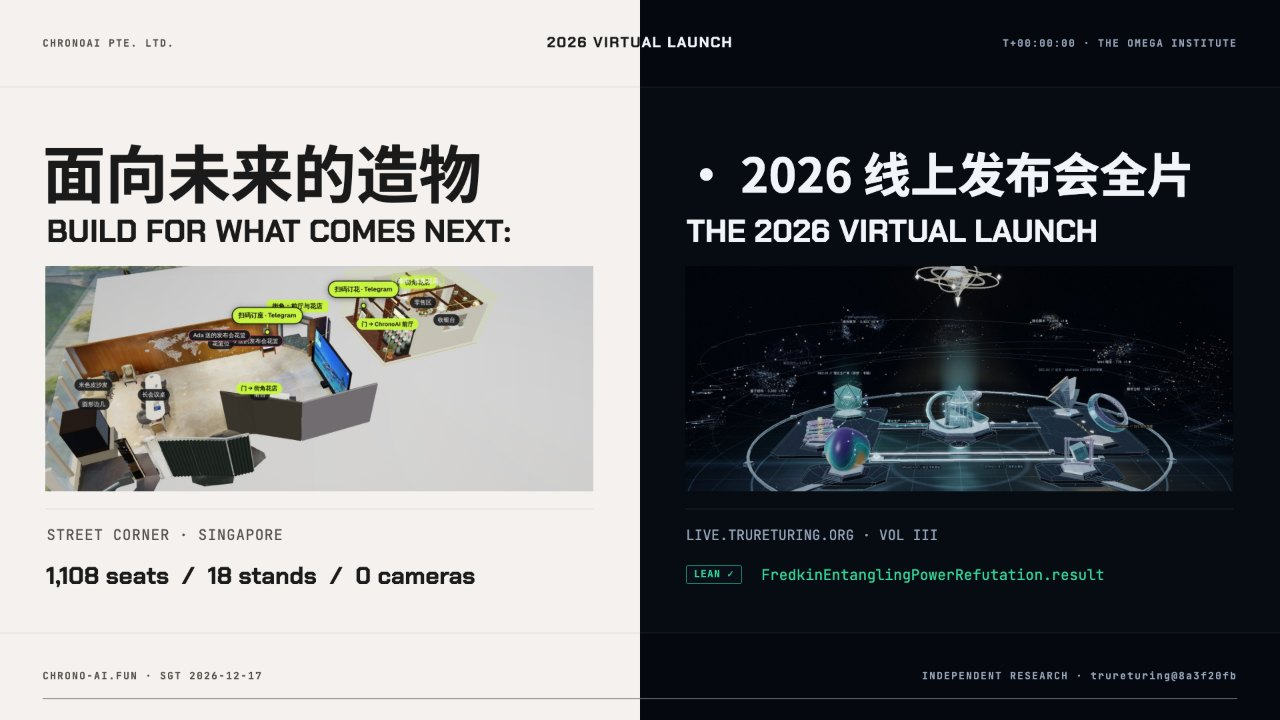
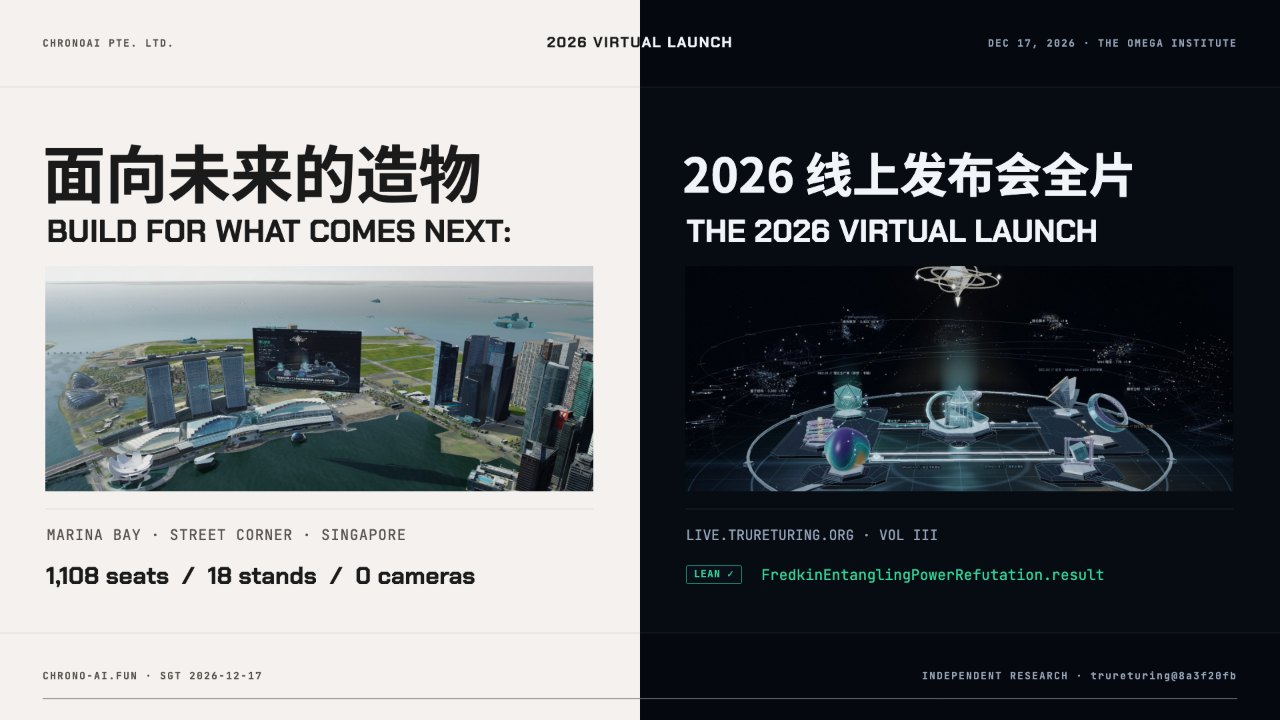
feat(films): film the launch prologue on the Marina Bay live screens

diff --git a/books/launch-keynote/films/virtual-launch-2026/scenes.js b/books/launch-keynote/films/virtual-launch-2026/scenes.js
@@ -7,7 +7,10 @@ Object.assign(FILM.polarity, {
   act2_observatory: 'deep-space', act2_kernel_audit: 'deep-space', act2_open_frontier: 'deep-space',
   act3_vehicle: 'daylight', act3_limits: 'daylight', act4_employees: 'daylight', coda_invitation: 'dual-split'
 });
-Object.assign(FILM.alphaScenes, { act2_observatory: true, act2_kernel_audit: true, act4_employees: true });
+Object.assign(FILM.alphaScenes, {
+  prologue_street: true, prologue_lobby: true,
+  act2_observatory: true, act2_kernel_audit: true, act4_employees: true
+});
 
 const plaza = pal('daylight'), space = pal('deep-space');
 const company = 'CHRONOAI PTE. LTD.', institute = 'THE OMEGA INSTITUTE (INDEPENDENT)';
@@ -340,12 +343,12 @@ FILM.poster = () => {
   const S = { id: 'coda_invitation', t: 0, p: 1 };
   splitPaper();
   heading('面向未来的造物', 64, 297, 94, plaza.ink, { fam: F.zh });
-  heading('· 2026 线上发布会全片', 1024, 289, 71, space.ink, { fam: F.zh });
+  heading('2026 线上发布会全片', 1024, 289, 71, space.ink, { fam: F.zh });
   heading('BUILD FOR WHAT COMES NEXT:', 70, 363, 47, plaza.ink);
   heading('THE 2026 VIRTUAL LAUNCH', 1030, 363, 47, space.ink);
   portalPhotos(399, 338);
   rule(68, 890, 763, plaza); rule(1028, 1850, 763, space);
-  caption('STREET CORNER · SINGAPORE', 70, 810, plaza.dim, 22, { ls: 1 });
+  caption('MARINA BAY · STREET CORNER · SINGAPORE', 70, 810, plaza.dim, 22, { ls: 1 });
   caption('LIVE.TRURETURING.ORG · VOL III', 1029, 810, space.dim, 21);
   heading('1,108 seats  /  18 stands  /  0 cameras', 69, 876, 36, plaza.ink);
   if (leanCite(fredkinGid)?.kind === 'theorem') {
@@ -355,6 +358,10 @@ FILM.poster = () => {
   cinemaFrame(S, { polarity: 'dual-split', leftLabel: company, chapterLabel: '2026 VIRTUAL LAUNCH',
     rightLabel: 'THE OMEGA INSTITUTE', slateLeft: 'CHRONO-AI.FUN · SGT 2026-12-17',
     slateRight: 'INDEPENDENT RESEARCH · ' + pinLabel });
+  // Use the event date in the poster's timecode position.
+  fillBox(1390, 36, 480, 59, space.bg, 1);
+  caption('DEC 17, 2026 · THE OMEGA INSTITUTE', 1856, MATTE_HEIGHT / 2, space.dim, 15,
+    { w: 600, ls: 2, align: 'right', base: 'middle' });
 };
 
 /* The director's narration lines are also the motion cue addresses (SC[id].lines).
